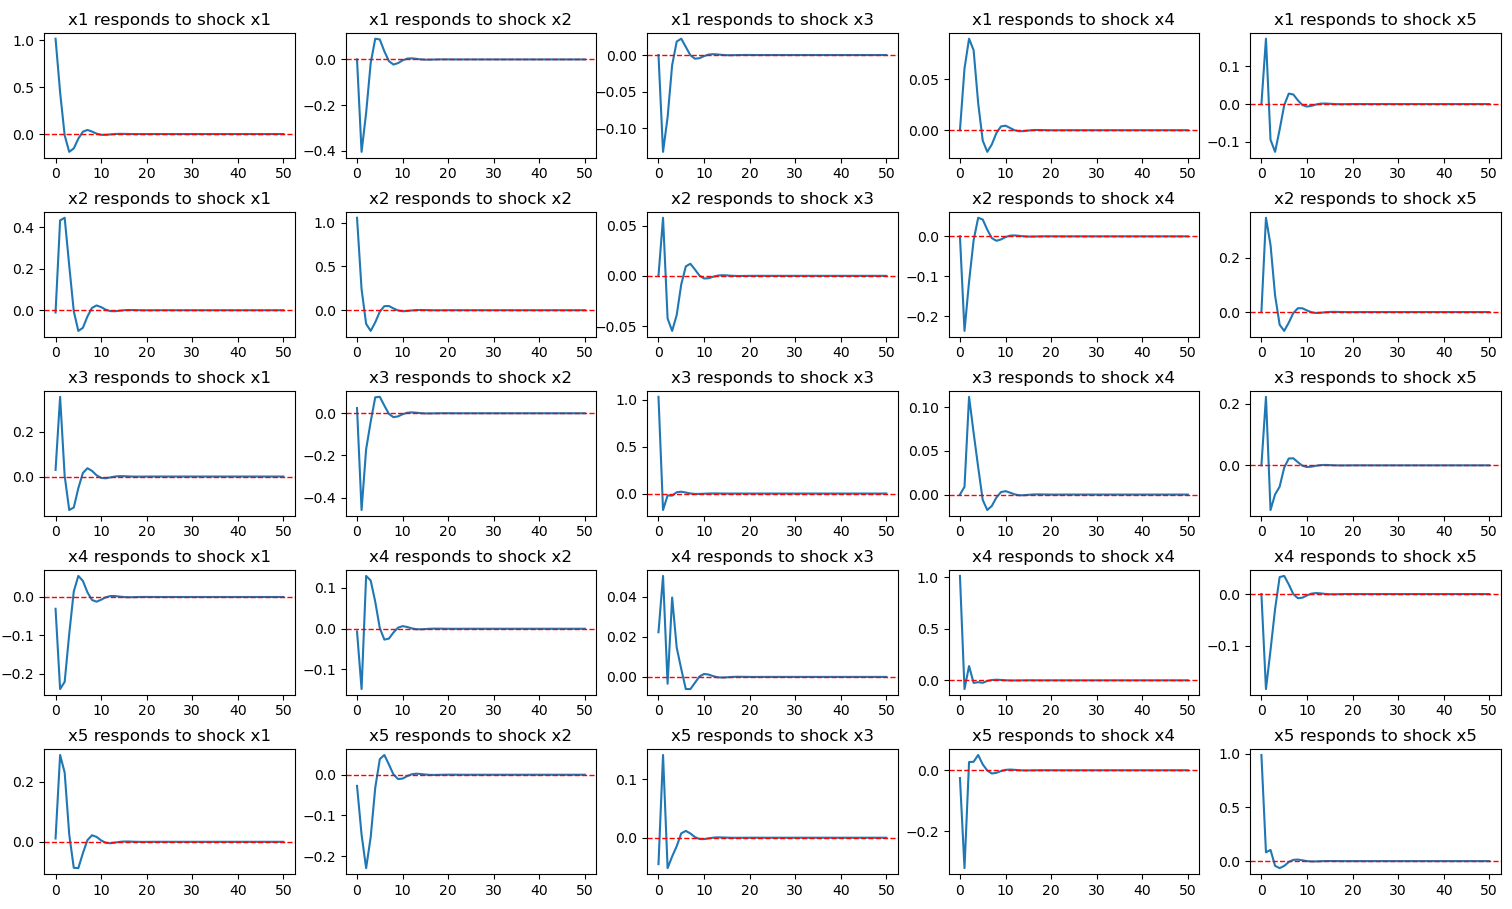
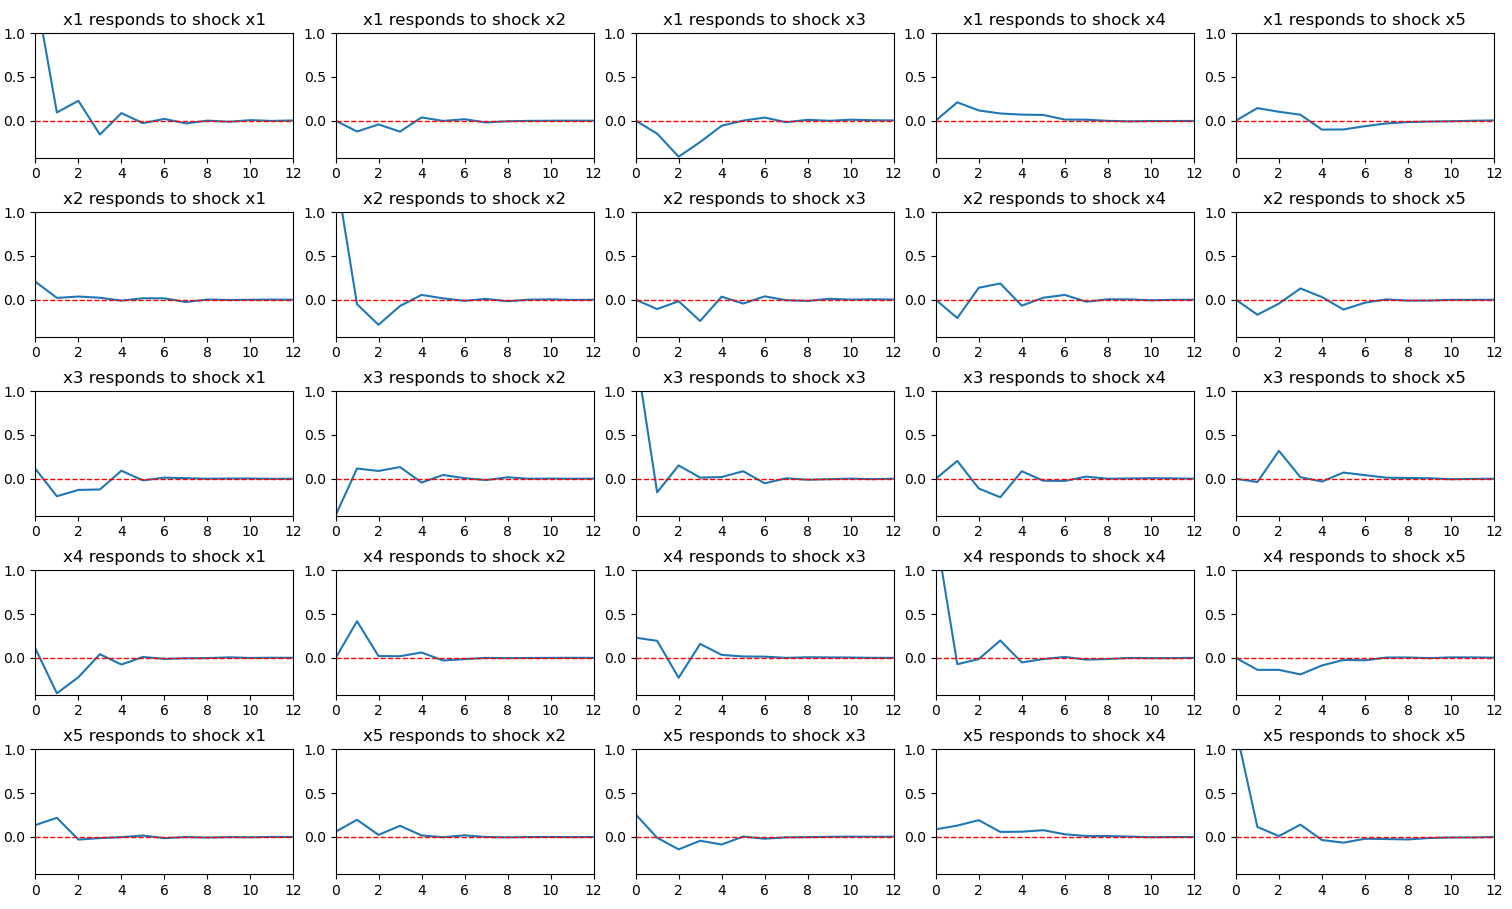
Fix the range of the axes

diff --git a/src/varp/irf.py b/src/varp/irf.py
@@ -45,12 +45,17 @@ def irf_plots(df, p, h):
     n_vars = df.shape[1]
     irf = irf_coefs(df, p, h)
     var_names = list(df.columns)
+    min_irf = np.min(irf)
     fig, axes = plt.subplots(n_vars, n_vars, figsize=(20, 10))
+
     for i in range(n_vars):
         for j in range(n_vars):
             axes[i, j].plot(irf[:, i, j])
             axes[i, j].axhline(0, color="red", linewidth=1, linestyle="--")
             axes[i, j].set_title(f"{var_names[i]} responds to shock {var_names[j]}")
+            for sub_plot in axes.flatten():
+                sub_plot.set_xlim(0, h)
+                sub_plot.set_ylim(min_irf, 1)
 
     plt.tight_layout()
     plt.show()

diff --git a/tests/test_varp.py b/tests/test_varp.py
@@ -5,21 +5,21 @@ from varp.estimate_var import estimate_reduced_form_VAR
 from varp.irf import irf_coefs, irf_plots
 from varp.predict import pred_vars
 
-seed = 123456
-n_obs = 1000
+seed = 53
+n_obs = 100
 n_vars = 5
 mean = 0
 sd = 1
-p = 2
-h = 50
+p = 3
+h = 12
 
 np.random.seed(seed)
 
-A = np.random.uniform(-0.5, 0.5, size=(n_vars, n_vars))
+A = np.random.uniform(-0.1, 0.1, size=(n_vars, n_vars))
 df = gen_data(n_obs, n_vars, mean, sd, A, seed)
 
 expected_irf_coefs = np.array(
-    [-0.17638068, -0.09145083, 0.30423662, -0.40200738, 0.07473255]
+    [0.02037557, -0.05131572, -0.10746685, -0.20985271, -0.1719685]
 )
 
 

diff --git a/README.md b/README.md
@@ -49,16 +49,22 @@ varp.pred_plots(df, varname, p, h, num_obs)
 ## Example
 <pre>
 >>> df
-            x1        x2        x3        x4        x5
-t0    0.636514  0.384812  0.047445  0.955253  0.906051
-t1    0.332441 -1.077303 -0.242069 -1.632524 -0.289735
-t2    0.285713 -0.497562 -1.059906  1.763713 -0.897922
-t3    0.434833 -2.832117  0.465437  1.283341 -0.219628
-t4   -0.792584 -0.977940  1.980122  2.071441 -0.868831
-...        ...       ...       ...       ...       ...
-t995  1.522618 -0.978108  1.618740  1.228262  0.463357
-t996 -1.454285 -0.373361  0.344117  0.804287 -1.162873
-t997  0.462740  0.963316  1.355203  1.119711 -2.495599
-t998  3.237160  0.182914 -2.293840  0.648967 -0.586916
-t999 -2.399679 -2.033391 -0.406719 -0.037344  0.567880
+           x1        x2        x3        x4        x5
+t0   0.011127  0.718911  0.331127  0.933089  0.104825
+t1  -0.271037 -1.305926 -0.279659 -1.522039 -2.494281
+t2  -1.028152 -1.032755  1.293889 -0.857352  0.916563
+t3  -1.064529  0.757581 -0.364798  0.367727  1.674848
+t4  -0.075852 -1.255148 -0.749579  0.547265  0.297691
+..        ...       ...       ...       ...       ...
+t95 -2.036343 -1.308089 -1.488783 -0.426856 -0.533624
+t96  1.506461 -0.283629  1.275076  0.830131  0.467064
+t97  0.866541 -0.033298 -1.024374 -0.083033  0.997294
+t98  0.207489  1.645217  0.117577 -0.904989  0.103115
+t99  1.107618 -0.609195  0.609274  0.865810  1.176038
 </pre>
+
+```
+varp.irf_plots(df, p, h)
+```
+
+![alt text](irf_fig.png)
